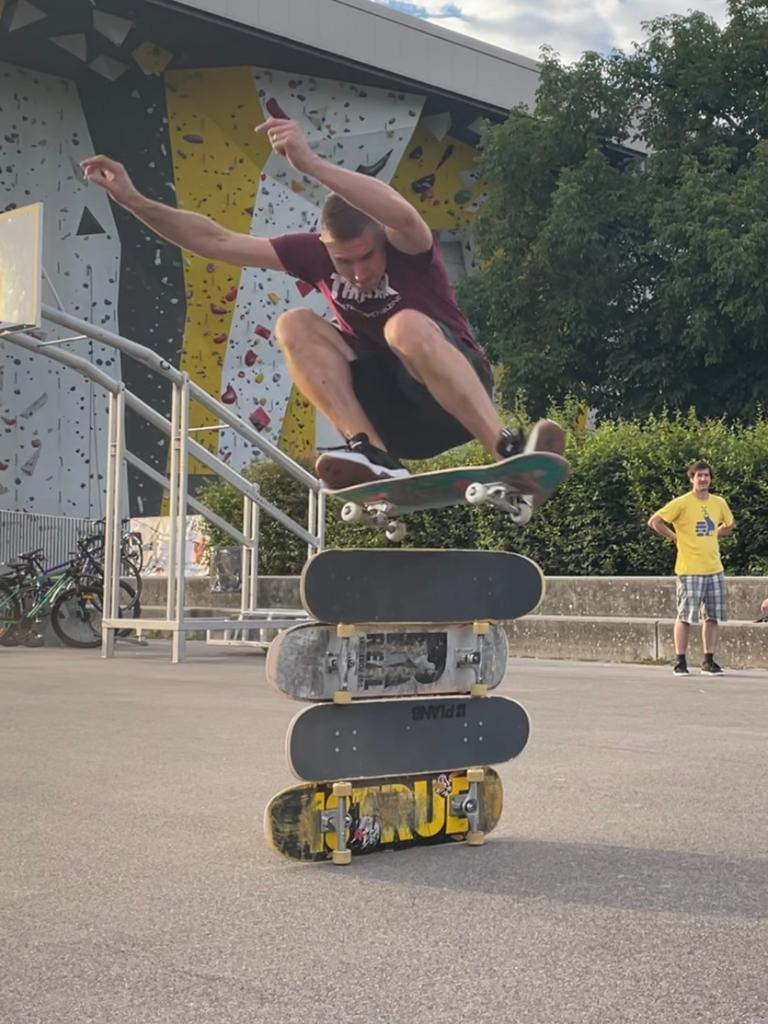
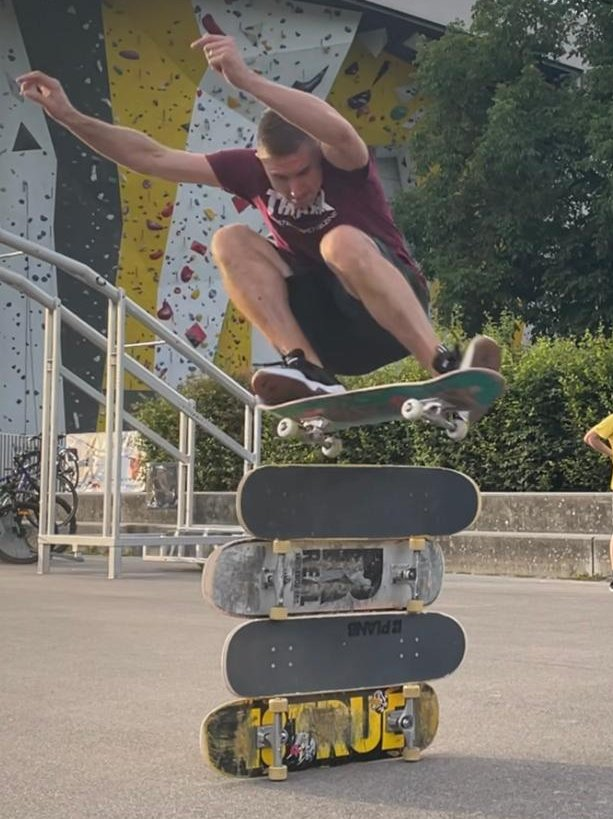
changed pictures and css

diff --git a/index.html b/index.html
@@ -59,18 +59,21 @@
             <div class="mission-content">
                 <div class="mission-card">
                     <h3>Unsere Mission</h3>
-                    <p>Wir fördern Skateboarding in Uster</p>
+                    <p>Wir geben Skater in Uster eine gemeinsame Stimme, möchtest du Teil davon sein? An vorderster Front? Zusammen verbessern wir den Skatepark Uster. Wir entscheiden Gemeinsam.</p>
                     <a href="#about" class="mission-link">Mehr erfahren</a>
                 </div>
-                <div class="mission-card">
+                <!--<div class="mission-card">
                     <h3>Unsere Events</h3>
                     <p>Schnuppern oder bereits Mitglied? Melde dich an zu unseren Events!</p>
                     <a href="#events" class="mission-link">Events ansehen</a>
-                </div>
-                <div class="mission-card">
-                    <h3>Werde Mitglied</h3>
-                    <p>Engagieren und mitmachen</p>
-                    <a href="#mitglied" class="mission-link">Beitreten</a>
+                </div>-->
+                <img src="images/skate_10.jpg" alt="Skater macht Ollie über gestapelte boards" class="mission-img">
+                <div class="mission-card">  
+                    <div class="mission-container">
+                        <h3>Werde Mitglied</h3> 
+                        <p>Engagieren und mitmachen. Zusammen erreichen wir mehr!</p>
+                    </div>
+                    <img src="images/Logo_grind.png" alt="Skateboard Verein Uster Grind Logo" class="mission-logo">
                 </div>
             </div>
         </div>

diff --git a/styles.css b/styles.css
@@ -277,14 +277,37 @@ body {
     padding: 0 24px;
 }
 
+.mission-logo {
+    display: block;
+    max-width: 100px;
+    width: 100%;
+    height: auto;
+    margin: 0 auto 0 auto;
+    border-radius: 12px;
+}
+.mission-img {
+    display: block;
+    max-width: 400px;
+    width: 100%;
+    height: auto;
+    margin: 0 auto 0 auto;
+    border-radius: 12px;
+}
+
 .mission-card {
-    background: linear-gradient(135deg, var(--color-primary), var(--color-primary-dark));
-    padding: 28px 24px;
+    background: var(--color-primary);
     border-radius: 22px;
     box-shadow: 0 20px 35px rgba(239, 81, 50, 0.25);
     text-align: left;
     color: var(--color-white);
-    transition: transform 0.3s ease, box-shadow 0.3s ease;
+    padding: 22px;
+}
+
+.mission-container {
+    display: flex;
+    flex-direction: row;
+    align-items: center;
+    justify-content: space-between;
 }
 
 .mission-card:hover {
@@ -294,7 +317,6 @@ body {
 
 .mission-card h3 {
     font-size: 1.4rem;
-    margin-bottom: 8px;
     color: var(--color-white);
 }
 
